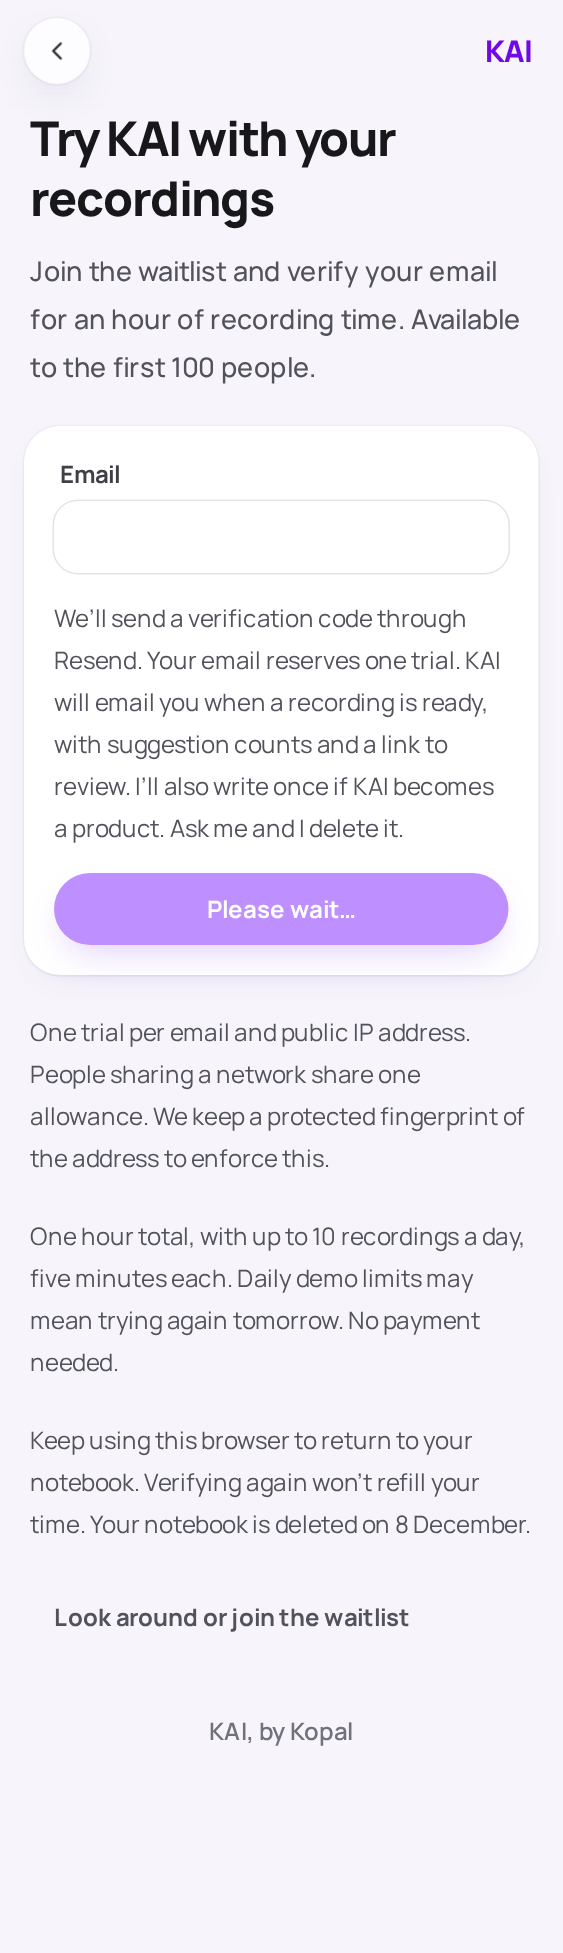
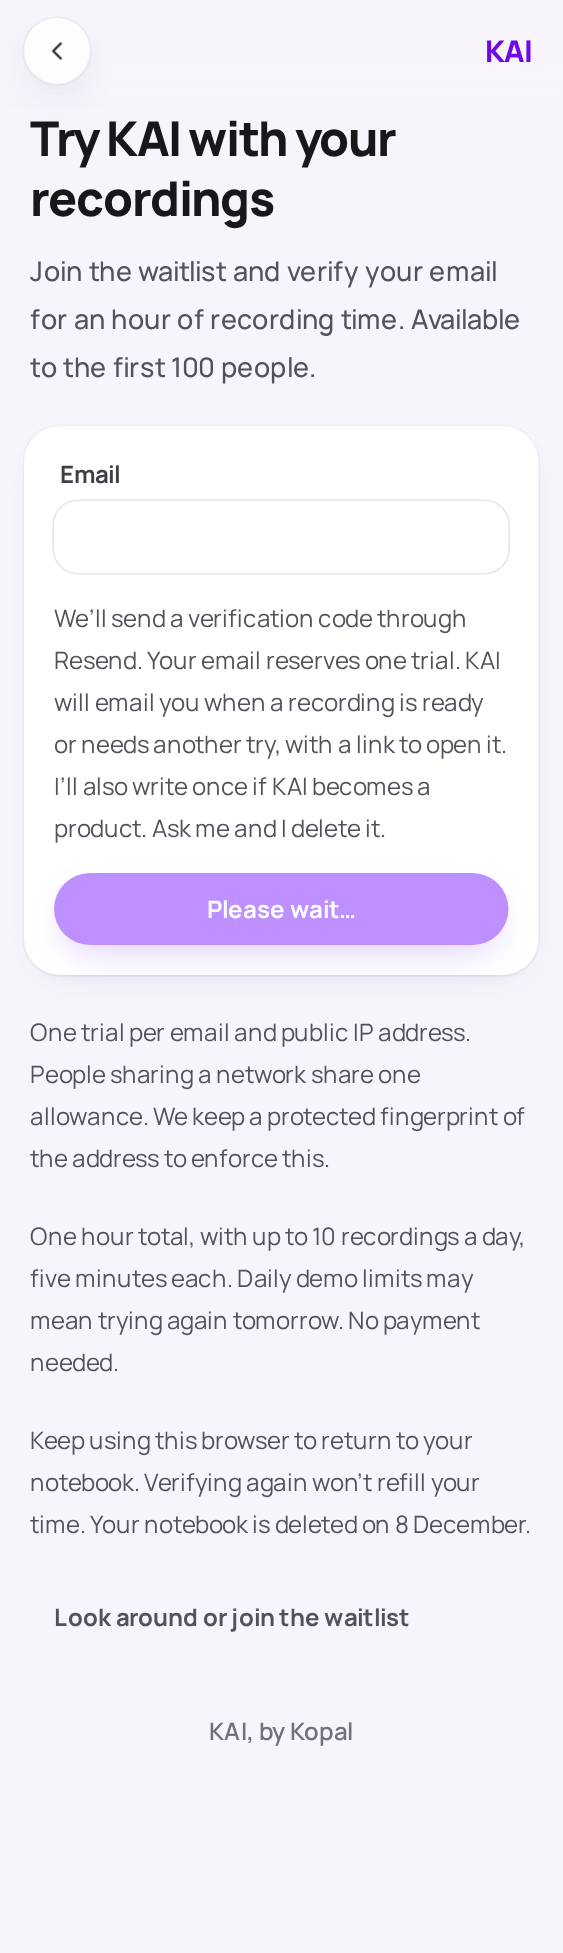
Fix recording failures and notify their owner (#27)
* Record content-free listening failure categories

* Notify recording failures and keep retries moving

Changed region(s): [[0.0906, 0.3748, 0.8757, 0.4373]]

diff --git a/tests/recording-mail.test.ts b/tests/recording-mail.test.ts
@@ -25,7 +25,7 @@ test('recording mail isolates verified recipients, sends counts only, and skips 
  const db=openDatabase();seed(db);const first=actor(db),second=actor(db),unverified=actor(db,false);
  const id=recording(db,first.id),empty=recording(db,second.id,{source:'shared'});
  for(const kind of ['person','note','todo','done'])db.prepare("INSERT INTO suggestions VALUES (?,?,?,?,?,?,'proposed')").run(randomUUID(),first.id,id,kind,JSON.stringify({text:'Private invented action'}),'Private invented quote');
- for(const options of [{status:'failed'},{status:'listening'},{status:'reading'},{status:'waiting'},{source:'sample'},{source:'paste'},{notify:0},{transcribed:0}])recording(db,first.id,options);
+ for(const options of [{status:'listening'},{status:'reading'},{status:'waiting'},{source:'sample'},{source:'paste'},{notify:0},{transcribed:0}])recording(db,first.id,options);
  recording(db,unverified.id);recording(db,'public');
  const sent:{email:string;id:string;counts:ReadyCounts}[]=[];
  const worker=recordingMailWorker(db,async(email,id,counts)=>{sent.push({email,id,counts})});
@@ -137,4 +137,81 @@ test('styled email escapes the recording title and snapshots it for identical re
   await worker.kick();db.prepare('UPDATE conversations SET title=? WHERE id=?').run('A later title',id);now+=60001;await worker.kick();
   assert.deepEqual(titles,['Private invented title','Private invented title']);
  }finally{await worker.stop();db.close()}
+});
+
+
+test('one private failure email survives restarts, suppresses stale sends and allows a later ready message',async()=>{
+ let db=openDatabase();seed(db);const judge=actor(db),other=actor(db,false),id=recording(db,judge.id,{status:'failed',transcribed:0});
+ recording(db,other.id,{status:'failed'});recording(db,judge.id,{status:'failed',source:'paste'});recording(db,judge.id,{status:'failed',notify:0});
+ let now=Date.now();const sent:{id:string;kind:string;title:string;counts:ReadyCounts}[]=[];
+ const send=async(_email:string,id:string,counts:ReadyCounts,title:string,kind='ready')=>{sent.push({id,kind,title,counts});};
+ let worker=recordingMailWorker(db,send,()=>now);
+ try {
+  await worker.kick();await worker.kick();assert.deepEqual(sent,[{id,kind:'failed',title:'Your recording',counts:{person:0,note:0,todo:0,done:0}}]);
+  await worker.stop();const snapshot=db.serialize();db.close();db=openDatabase(snapshot);worker=recordingMailWorker(db,send,()=>now);
+  await worker.kick();assert.equal(sent.length,1);
+  db.prepare("UPDATE conversations SET status='reading' WHERE id=?").run(id);await worker.kick();assert.equal(sent.length,1);
+  db.prepare("UPDATE conversations SET status='failed' WHERE id=?").run(id);await worker.kick();assert.equal(sent.length,1);
+  db.prepare("UPDATE conversations SET status='ready',transcribed=1 WHERE id=?").run(id);await worker.kick();assert.equal(sent.length,2);assert.equal(sent[1].kind,'ready');
+  const stale=recording(db,judge.id,{status:'failed'});await worker.stop();
+  worker=recordingMailWorker(db,async()=>{throw new Error('Invented temporary mail failure')},()=>now);await worker.kick();await worker.stop();
+  db.prepare("UPDATE conversations SET status='ready' WHERE id=?").run(stale);now+=60001;
+  worker=recordingMailWorker(db,send,()=>now);await worker.kick();assert.equal(sent.filter(s=>s.id===stale&&s.kind==='failed').length,0);assert.equal(sent.filter(s=>s.id===stale&&s.kind==='ready').length,1);
+ }finally{await worker.stop();db.close()}
+});
+
+test('listening and reading failures wake the email worker without another page request',async()=>{
+ const db=openDatabase();seed(db);const judge=actor(db),directory=mkdtempSync('.data/mail-failures-');const sent:string[]=[];
+ const mail=recordingMailWorker(db,async(_email,_id,_counts,_title,kind)=>{sent.push(kind!)});
+ let queue=queueWorker(db,async()=>{throw new Error('Invented reading failure')},async()=>{throw new Error('Private invented provider detail')},()=>{void mail.kick()});
+ try {
+  await addAudio(db,judge.id,[{name:'invented.wav',buffer:testTone(),date:Date.now()}],directory);
+  await queue.kick();await mail.kick();assert.deepEqual(sent,['failed']);await queue.stop();
+  queue=queueWorker(db,async()=>{throw new Error('Private invented words')},fakeTranscriber,()=>{void mail.kick()});
+  await addAudio(db,judge.id,[{name:'invented.wav',buffer:testTone(),date:Date.now()}],directory);
+  await queue.kick();await mail.kick();assert.deepEqual(sent,['failed','failed']);
+ }finally{await queue.stop();await mail.stop();db.close();rmSync(directory,{recursive:true,force:true})}
+});
+
+test('failure email excludes content and uses a separate stable key from completion mail',async()=>{
+ const original=globalThis.fetch;const requests:{body:any;key:string}[]=[];
+ globalThis.fetch=async(input,init)=>{
+  if(String(input).endsWith('/gateway/list'))return Response.json(['https://api.sprites.dev/v1/gateway/resend/invented']);
+  requests.push({body:JSON.parse(String(init?.body)),key:new Headers(init?.headers).get('Idempotency-Key')!});return Response.json({id:'invented-email'});
+ };
+ try {
+  const send=resendReadySender('KAI <kai@example.invalid>','https://kai.example.invalid');const counts={person:2,note:4,todo:3,done:1};
+  await send('reader@example.invalid','invented-recording',counts,'Private invented title','failed');
+  await send('reader@example.invalid','invented-recording',counts,'Changed private title','failed');
+  await send('reader@example.invalid','invented-recording',counts,'Private invented title','ready');
+  assert.deepEqual(requests[0],requests[1]);assert.notEqual(requests[0].key,requests[2].key);
+  const message=requests[0].body;assert.match(message.subject,/another try/);assert.match(message.text,/recordings\/invented-recording/);assert.match(message.html,/#7f22fe/);
+  for(const value of [message.subject,message.text,message.html]){assert.ok(!value.includes('Private'));assert.ok(!value.includes('reader@example.invalid'));assert.ok(!value.includes('suggested'));}
+ }finally{globalThis.fetch=original}
+});
+
+
+test('mail queued just after an empty scan is sent without another request',async()=>{
+ const db=openDatabase();seed(db);const a=actor(db);let sends=0;
+ const worker=recordingMailWorker(db,async()=>{sends++});
+ try {const idle=worker.kick();recording(db,a.id,{status:'failed'});const queued=worker.kick();await Promise.all([idle,queued]);assert.equal(sends,1);}
+ finally{await worker.stop();db.close()}
+});
+
+test('failure sends use the same notebook and global caps as ready sends',async()=>{
+ const db=openDatabase();seed(db);const actors=Array.from({length:7},()=>actor(db));let sends=0;
+ for(const a of actors)for(let i=0;i<11;i++)recording(db,a.id,{status:i%2?'ready':'failed'});
+ const worker=recordingMailWorker(db,async()=>{sends++});
+ try {await worker.kick();assert.equal(sends,60);assert.ok((db.prepare('SELECT count(*) n FROM notification_sends GROUP BY workspace_id').all() as {n:number}[]).every(r=>r.n<=10));}
+ finally{await worker.stop();db.close()}
+});
+
+
+test('mail migration preserves ready delivery state and does not send it again',async()=>{
+ let db=openDatabase();seed(db);const a=actor(db),id=recording(db,a.id);const now=Date.now();
+ db.exec(`DROP TABLE recording_emails; CREATE TABLE recording_emails(id TEXT PRIMARY KEY REFERENCES conversations(id),workspace_id TEXT NOT NULL REFERENCES workspaces(id),counts TEXT NOT NULL,queued_at INTEGER NOT NULL,first_attempt_at INTEGER,attempts INTEGER NOT NULL DEFAULT 0,next_attempt_at INTEGER NOT NULL DEFAULT 0,sent_at INTEGER,closed INTEGER NOT NULL DEFAULT 0,title TEXT NOT NULL DEFAULT 'Your recording')`);
+ db.prepare('INSERT INTO recording_emails(id,workspace_id,counts,queued_at,first_attempt_at,attempts,sent_at,title) VALUES (?,?,?,?,?,?,?,?)').run(id,a.id,JSON.stringify({person:0,note:0,todo:0,done:0}),now,now,1,now,'Invented frozen title');
+ const snapshot=db.serialize();db.close();db=openDatabase(snapshot);let sends=0;const worker=recordingMailWorker(db,async()=>{sends++});
+ try {await worker.kick();assert.equal(sends,0);assert.deepEqual(db.prepare('SELECT kind,attempts,sent_at,title FROM recording_emails WHERE id=?').get(id),{kind:'ready',attempts:1,sent_at:now,title:'Invented frozen title'});}
+ finally{await worker.stop();db.close()}
 });

diff --git a/src/server/audio.ts b/src/server/audio.ts
@@ -47,6 +47,14 @@ export async function addAudio(db:KaiDatabase,workspace:string,files:AudioInput[
   } catch(error) {for(const file of written) if(existsSync(file)) unlinkSync(file);throw error;}
 }
 export class AudioDurationError extends Error {}
+/** Fixed categories only. Never retain provider messages or recording content. */
+export class ListeningFailure extends Error {constructor(public code:string){super(code)}}
+function listeningCode(error:unknown) {
+  if(error instanceof ListeningFailure)return error.code;
+  if(error instanceof AudioDurationError)return 'audio_duration';
+  if(error instanceof Error && /^Connector request failed \((\d{3})\)\.$/.test(error.message))return 'listening_http_'+error.message.match(/\d{3}/)![0];
+  return 'listening_failed';
+}
 export const assemblyTranscriber:Transcriber=async(audio,signal,reservedSeconds=300,multiple=false)=> {
   if(!Number.isInteger(reservedSeconds) || reservedSeconds<1 || reservedSeconds>300)throw new Error('Invalid recording reservation.');
   const {assemblyai}=await discoverGateways();
@@ -62,17 +70,19 @@ export const assemblyTranscriber:Transcriber=async(audio,signal,reservedSeconds=
         if(typeof result.text!=='string' || result.text.length>20000 || result.audio_duration>300) throw new Error('Recording exceeds the limits.');
         if(multiple) {
           const utterances=result.utterances;
-          if(!Array.isArray(utterances) || !utterances.length || utterances.length>2000)throw new Error('Speaker labels are missing.');
+          if(!Array.isArray(utterances) || !utterances.length || utterances.length>2000)throw new ListeningFailure('speakers_missing');
           const clean:Utterance[]=utterances.map(u=>{
-            if(!u || typeof u.speaker!=='string' || !/^[A-Z]{1,3}$/.test(u.speaker) || typeof u.text!=='string' || !u.text.trim() || u.text.length>20000 || !Number.isFinite(u.start) || !Number.isFinite(u.end) || u.start<0 || u.end<u.start || u.end>reservedSeconds*1000+1000)throw new Error('Speaker labels are invalid.');
+            if(!u || typeof u.speaker!=='string' || !/^[A-Z]{1,3}$/.test(u.speaker))throw new ListeningFailure('speaker_label_invalid');
+            if(typeof u.text!=='string' || !u.text.trim() || u.text.length>20000)throw new ListeningFailure('speaker_text_invalid');
+            if(!Number.isFinite(u.start) || !Number.isFinite(u.end) || u.start<0 || u.end<u.start || u.end>reservedSeconds*1000+1000)throw new ListeningFailure('speaker_time_invalid');
             return {speaker:u.speaker,text:u.text,start:u.start,end:u.end};
           });
-          if(new Set(clean.map(u=>u.speaker)).size>20 || clean.reduce((n,u)=>n+u.text.length,0)>40000)throw new Error('Too many speaker passages.');
+          if(new Set(clean.map(u=>u.speaker)).size>20 || clean.reduce((n,u)=>n+u.text.length,0)>40000)throw new ListeningFailure('speaker_limit');
           return {text:result.text,utterances:clean};
         }
         return result.text;
       }
-      if(result.status==='error') throw new Error('Listening failed.');
+      if(result.status==='error') throw new ListeningFailure('listening_provider_error');
       await new Promise(resolve=>setTimeout(resolve,1000));
     }
   } finally {
@@ -82,7 +92,7 @@ export const assemblyTranscriber:Transcriber=async(audio,signal,reservedSeconds=
 };
 type Job={recording_type:string|null;id:string;workspace_id:string;audio_path:string|null;status:string;attempts:number;text:string;transcribed:number;reserved_seconds:number|null};
 export function queueWorker(db:KaiDatabase,reader:Reader,transcribe:Transcriber,onReady:()=>void=()=>{}) {
-  let active:Promise<void>|undefined,stopped=false;
+  let active:Promise<void>|undefined,stopped=false,again=false;
   const controller=new AbortController();
   function retryInterrupted(job:Job) {
     if(job.attempts>=2) {db.prepare("UPDATE conversations SET status='failed',error='KAI could not finish. Try again.' WHERE id=?").run(job.id);return;}
@@ -99,7 +109,8 @@ export function queueWorker(db:KaiDatabase,reader:Reader,transcribe:Transcriber,
   // One server owns this database. A new process means these leases were interrupted.
   for(const job of db.prepare("SELECT * FROM conversations WHERE status IN ('listening','reading')").all() as Job[]) retryInterrupted(job);
   function kick() {
-    if(active || stopped) return active ?? Promise.resolve();
+    if(stopped)return active ?? Promise.resolve();
+    if(active){again=true;return active;}
     active=(async()=> {
       for(;;) {
         if(stopped) return;
@@ -116,7 +127,7 @@ export function queueWorker(db:KaiDatabase,reader:Reader,transcribe:Transcriber,
             const transcript=await transcribe(audio,signal,seconds,job.recording_type==='multiple');signal.throwIfAborted();
             const words=typeof transcript==='string' ? transcript:transcript.text;
             const utterances=typeof transcript==='string' ? []:transcript.utterances;
-            if(job.recording_type==='multiple' && !utterances.length)throw new Error('Speaker labels are missing.');
+            if(job.recording_type==='multiple' && !utterances.length)throw new ListeningFailure('speakers_missing');
             if(words.length>20000) throw new Error();
             // Persist words first: a restart after this line never needs to listen again.
             db.prepare('UPDATE conversations SET text=?,transcribed=1,utterances=?,awaiting_speakers=? WHERE id=?').run(words,JSON.stringify(utterances),Number(job.recording_type==='multiple'),job.id);
@@ -131,15 +142,17 @@ export function queueWorker(db:KaiDatabase,reader:Reader,transcribe:Transcriber,
           onReady();
           if(signal.aborted && !stopped) retryInterrupted(db.prepare('SELECT * FROM conversations WHERE id=?').get(job.id) as Job);
         } catch(error) {
+          db.prepare('UPDATE conversations SET failure_code=? WHERE id=?').run(signal.aborted ? 'listening_timeout':listeningCode(error),job.id);
           if(error instanceof AudioDurationError) {
             db.prepare('UPDATE workspaces SET trial_ended=1,trial_seconds=0 WHERE id=? AND trial_seconds IS NOT NULL').run(job.workspace_id);
           }
           if(stopped) return;
           if(signal.aborted) retryInterrupted(db.prepare('SELECT * FROM conversations WHERE id=?').get(job.id) as Job);
           else db.prepare("UPDATE conversations SET status='failed',error='KAI could not listen to this recording. Try again.' WHERE id=?").run(job.id);
+          if((db.prepare('SELECT status FROM conversations WHERE id=?').get(job.id) as {status:string}).status==='failed')onReady();
         }
       }
-    })().finally(()=>{active=undefined;});
+    })().finally(()=>{active=undefined;if(again && !stopped){again=false;return kick();}});
     return active;
   }
   return {kick,stop:async()=>{stopped=true;controller.abort();await active;}};

diff --git a/src/server/recording-mail.ts b/src/server/recording-mail.ts
@@ -1,25 +1,27 @@
 import {randomUUID} from 'node:crypto';
 import type {KaiDatabase} from './db';
 export type ReadyCounts={person:number;note:number;todo:number;done:number};
-export type SendReady=(email:string,id:string,counts:ReadyCounts,title:string)=>Promise<void>;
+export type RecordingMailKind='ready'|'failed';
+export type SendReady=(email:string,id:string,counts:ReadyCounts,title:string,kind?:RecordingMailKind)=>Promise<void>;
 const day=86400000;
 /** One owner, like the recording queue. A crash leaves the same provider idempotency key. */
 export function recordingMailWorker(db:KaiDatabase,send:SendReady|undefined,now:()=>number=Date.now) {
- let active:Promise<void>|undefined,stopped=false;
+ let active:Promise<void>|undefined,stopped=false,again=false;
  function kick() {
-  if(!send || stopped || active)return active??Promise.resolve();
+  if(!send || stopped)return active??Promise.resolve();
+  if(active){again=true;return active;}
   active=(async()=>{
    for(;;) {
     if(stopped)return;
-   const ready=db.prepare(`SELECT c.id,c.workspace_id,c.title FROM conversations c JOIN waitlist w ON w.workspace_id=c.workspace_id
+   const ready=db.prepare(`SELECT c.id,c.workspace_id,c.title,c.status kind FROM conversations c JOIN waitlist w ON w.workspace_id=c.workspace_id
     JOIN workspaces n ON n.id=c.workspace_id
-    WHERE c.notify_ready=1 AND c.status='ready' AND c.transcribed=1 AND c.source IN ('recording','shared')
+    WHERE c.notify_ready=1 AND (c.status='failed' OR (c.status='ready' AND c.transcribed=1)) AND c.source IN ('recording','shared')
      AND w.verified_at IS NOT NULL AND n.trial_verified=1 AND n.trial_ended=0
-     AND NOT EXISTS (SELECT 1 FROM recording_emails e WHERE e.id=c.id)`).all() as {id:string;workspace_id:string;title:string}[];
+     AND NOT EXISTS (SELECT 1 FROM recording_emails e WHERE e.id=c.id AND e.kind=c.status)`).all() as {id:string;workspace_id:string;title:string;kind:RecordingMailKind}[];
    for(const row of ready) {
     const counts:ReadyCounts={person:0,note:0,todo:0,done:0};
-    for(const count of db.prepare("SELECT kind,count(*) n FROM suggestions WHERE conversation_id=? AND workspace_id=? AND status='proposed' GROUP BY kind").all(row.id,row.workspace_id) as {kind:keyof ReadyCounts;n:number}[])counts[count.kind]=count.n;
-    db.prepare('INSERT OR IGNORE INTO recording_emails(id,workspace_id,counts,queued_at,title) VALUES (?,?,?,?,?)').run(row.id,row.workspace_id,JSON.stringify(counts),now(),row.title);
+    if(row.kind==='ready')for(const count of db.prepare("SELECT kind,count(*) n FROM suggestions WHERE conversation_id=? AND workspace_id=? AND status='proposed' GROUP BY kind").all(row.id,row.workspace_id) as {kind:keyof ReadyCounts;n:number}[])counts[count.kind]=count.n;
+    db.prepare('INSERT OR IGNORE INTO recording_emails(id,kind,workspace_id,counts,queued_at,title) VALUES (?,?,?,?,?,?)').run(row.id,row.kind,row.workspace_id,JSON.stringify(counts),now(),row.kind==='ready'?row.title:'Your recording');
    }
     const at=now();
     const job=db.transaction(()=>{
@@ -28,23 +30,23 @@ export function recordingMailWorker(db:KaiDatabase,send:SendReady|undefined,now:
      const total=db.prepare('SELECT (SELECT count(*) FROM notification_sends)+(SELECT count(*) FROM trial_sends WHERE sent_at>?) n').get(at-day) as {n:number};
      const notifications=db.prepare('SELECT count(*) n FROM notification_sends').get() as {n:number};
      if(total.n>=100 || notifications.n>=60)return;
-     const row=db.prepare(`SELECT e.id,e.workspace_id,e.counts,e.title,w.email FROM recording_emails e
+     const row=db.prepare(`SELECT e.id,e.kind,e.workspace_id,e.counts,e.title,w.email FROM recording_emails e
       JOIN waitlist w ON w.workspace_id=e.workspace_id JOIN workspaces n ON n.id=e.workspace_id
       JOIN conversations c ON c.id=e.id AND c.workspace_id=e.workspace_id
       WHERE e.sent_at IS NULL AND e.closed=0 AND e.next_attempt_at<=? AND w.verified_at IS NOT NULL
-       AND n.trial_verified=1 AND n.trial_ended=0 AND c.status='ready'
+       AND n.trial_verified=1 AND n.trial_ended=0 AND c.status=e.kind
        AND (SELECT count(*) FROM notification_sends s WHERE s.workspace_id=e.workspace_id)<10
-      ORDER BY e.queued_at,e.rowid LIMIT 1`).get(at) as {id:string;workspace_id:string;counts:string;title:string;email:string}|undefined;
+      ORDER BY e.queued_at,e.rowid LIMIT 1`).get(at) as {id:string;kind:RecordingMailKind;workspace_id:string;counts:string;title:string;email:string}|undefined;
      if(!row)return;
      db.prepare('INSERT INTO notification_sends(id,workspace_id,sent_at) VALUES (?,?,?)').run(randomUUID(),row.workspace_id,at);
-     db.prepare('UPDATE recording_emails SET first_attempt_at=coalesce(first_attempt_at,?),attempts=attempts+1,next_attempt_at=? WHERE id=?').run(at,at+60000,row.id);
+     db.prepare('UPDATE recording_emails SET first_attempt_at=coalesce(first_attempt_at,?),attempts=attempts+1,next_attempt_at=? WHERE id=? AND kind=?').run(at,at+60000,row.id,row.kind);
      return row;
     })();
     if(!job)return;
-    try {await send(job.email,job.id,JSON.parse(job.counts),job.title);db.prepare('UPDATE recording_emails SET sent_at=? WHERE id=?').run(now(),job.id);}
+    try {await send(job.email,job.id,JSON.parse(job.counts),job.title,job.kind);db.prepare('UPDATE recording_emails SET sent_at=? WHERE id=? AND kind=?').run(now(),job.id,job.kind);}
     catch { /* Reserved attempts remain charged. No recipient, content or provider error is logged. */ }
    }
-  })().finally(()=>{active=undefined});
+  })().finally(()=>{active=undefined;if(again && !stopped){again=false;return kick();}});
   return active;
  }
  return {kick,stop:async()=>{stopped=true;await active}};

diff --git a/src/look/screens/Home.tsx b/src/look/screens/Home.tsx
@@ -27,10 +27,11 @@ function Queue({ items }: { items: QueueItem[] }) {
           <li key={item.id}>
             <a href={to((item.awaiting_person ? '/upload/' : '/recordings/') + item.id)} className={`${FOCUS} flex min-h-16 items-center gap-3 px-4 py-3`}>
               <span className="min-w-0 flex-1">
-                <span className="block text-base font-bold text-zinc-900">{item.title}</span>
+                <span className="block text-base font-bold text-zinc-900">{item.title==='New recording' ? (item.recording_type ? {memo:'My memo',voice:'Voice note',multiple:'Multiple speakers'}[item.recording_type] : 'Shared recording') : item.title}</span>
                 <span className={`block text-base font-medium ${item.status === 'failed' ? 'text-rose-700' : 'text-zinc-600'}`}>
-                  {item.awaiting_person ? 'Choose a person and start' : item.status === 'failed' ? (item.error ?? STATUS.failed) : item.status === 'reading' ? (item.progress ?? STATUS.reading) : item.status === 'ready' && item.suggestion_count ? `${item.suggestion_count} suggestions to review` : STATUS[item.status]}
+                  {item.awaiting_person ? 'Choose the recording type to start' : item.awaiting_speakers ? 'Identify speakers to continue' : item.status === 'failed' ? (item.error ?? STATUS.failed) : item.status === 'reading' ? (item.progress ?? STATUS.reading) : item.status === 'ready' && item.suggestion_count ? `${item.suggestion_count} suggestions to review` : STATUS[item.status]}
                 </span>
+                {item.reserved_seconds!=null && <span className="block text-base text-zinc-500">{Math.floor(item.reserved_seconds/60)} min {item.reserved_seconds%60} sec · {item.happened_on}</span>}
               </span>
               {item.status === 'listening' || item.status === 'reading' ? (
                 <Working />
@@ -176,7 +177,7 @@ export function Home({
       {queue.length > 0 && <Queue items={queue} />}
       {home && !readOnly && !home.shortcutReady && <Card className="space-y-3 p-5"><h2 className="text-xl font-extrabold">Send voice notes straight to KAI</h2><p className="text-base/7 text-zinc-600">Set up the iPhone shortcut once, then share from Voice Memos or WhatsApp.</p><Button variant="outline" href="/connect">Set up your phone</Button></Card>}
       {home?.trialSeconds!=null && !home.trialVerified && <Card className="p-5"><p className="mb-3 text-base/7">Verify your email to continue your trial. Your notebook and remaining time are kept.</p><Button href="/try" variant="outline">Verify email</Button></Card>}
-      {home?.trialSeconds!=null && home.trialVerified && <p className="px-1 text-base/7 text-zinc-600">KAI will email you when a recording is ready, with suggestion counts and a link to review.</p>}
+      {home?.trialSeconds!=null && home.trialVerified && <p className="px-1 text-base/7 text-zinc-600">KAI will email you when a recording is ready or needs another try, with a link to open it.</p>}
       {home?.trialSeconds===0 && home.xPostUrl && <Button href={home.xPostUrl} variant="outline">Show KAI some love</Button>}
       {home?.trialSeconds!=null && <p className="px-1 text-base/7 font-medium text-zinc-600">{home.trialSeconds ? `${Math.floor(home.trialSeconds/60)} min ${home.trialSeconds%60} sec of recording time left` : 'You’ve used your hour of recordings. Your notebook and assistant connection are still here.'}</p>}
       {home && !readOnly && home.conversations.length===0 && <Card className="p-5"><h2 className="text-xl font-extrabold">Your notebook starts here</h2><p className="mt-2 text-base/7 text-zinc-600">Add a recording. KAI will find the people, notes and to-dos for you to review.</p></Card>}

diff --git a/src/email/failed.ts b/src/email/failed.ts
@@ -1,0 +1,11 @@
+/** No title, transcript, suggestion or provider error leaves the notebook. */
+export function failedEmail(origin:string,id:string) {
+ const url=new URL(origin);
+ if(url.protocol!=='https:' || url.username || url.password || url.search || url.hash || url.pathname!=='/')throw new Error('A public HTTPS origin is required for recording mail.');
+ const link=new URL('/recordings/'+encodeURIComponent(id),url).href;
+ const subject='Your recording needs another try — KAI';
+ const text=`Hi there,\n\nI couldn’t finish your recording this time. Open it in KAI to see what happened and try again.\n\nRetrying this recording won’t use more of your hour. Daily limits still apply.\n\nOpen recording: ${link}\n\nUse the browser where you started your notebook.\n\nSee you there,\nKAI, by Kopal`;
+ const safeLink=link.replace(/&/g,'&amp;').replace(/"/g,'&quot;');
+ const html=`<!doctype html><html lang="en"><head><meta charset="utf-8"><meta name="viewport" content="width=device-width,initial-scale=1"><title>Your recording needs another try</title></head><body style="margin:0;background:#f7f5fb;color:#27272a;font-family:Manrope,Arial,sans-serif;font-size:16px"><table role="presentation" width="100%" cellspacing="0" cellpadding="0"><tr><td style="padding:28px 16px"><table role="presentation" width="100%" cellspacing="0" cellpadding="0" style="max-width:560px;margin:0 auto"><tr><td style="padding:0 8px 20px;color:#7008e7;font-size:28px;line-height:36px;font-weight:800">KAI</td></tr><tr><td style="padding:28px 24px;background:#fff;border:1px solid #ede9f5;border-radius:24px"><h1 style="margin:0 0 20px;font-size:30px;line-height:38px;font-weight:800">Let’s give it another try</h1><p style="margin:0 0 24px;font-size:16px;line-height:26px;color:#52525b">Hi there,<br>I couldn’t finish your recording this time. Open it in KAI to see what happened and try again.</p><p style="margin:0 0 24px;font-size:16px;line-height:26px;color:#52525b">Retrying this recording won’t use more of your hour. Daily limits still apply.</p><a href="${safeLink}" style="display:block;box-sizing:border-box;width:100%;padding:16px 12px;border-radius:999px;background:#7f22fe;color:#fff;font-size:18px;line-height:26px;font-weight:800;text-align:center;text-decoration:none">Open recording →</a><p style="margin:20px 0 0;color:#71717a;font-size:16px;line-height:26px">Use the browser where you started your notebook.</p></td></tr><tr><td style="padding:24px 16px;text-align:center;color:#71717a;font-size:16px;line-height:26px">See you there,<br><strong>KAI, by Kopal</strong></td></tr></table></td></tr></table></body></html>`;
+ return {subject,text,html};
+}

diff --git a/tests/recording-types.test.ts b/tests/recording-types.test.ts
@@ -79,3 +79,26 @@ test('a memo can propose and accept a personal task without inventing a contact'
   assert.equal((db.prepare('SELECT count(*) n FROM people WHERE workspace_id=?').get(a.id) as {n:number}).n,0);
  }finally{db.close();rmSync(dir,{recursive:true,force:true})}
 });
+
+
+test('a kick just after an empty queue scan still processes a newly queued recording',async()=>{
+ const db=openDatabase();seed(db);const a=createJudge(db),dir=mkdtempSync('.data/queue-wake-');let read=0;
+ const queue=queueWorker(db,async(_input,call)=>{read++;call('describe_recording',{title:'Invented',summary:'An invented recording.\nReady to review.'})},async()=> 'Invented words');
+ try {
+  const [id]=await addAudio(db,a.id,[{name:'invented.wav',buffer:testTone(),date:Date.now()}],dir,'shared',{awaitingPerson:true});
+  const idle=queue.kick();
+  db.prepare('UPDATE conversations SET awaiting_person=0 WHERE id=?').run(id);
+  const started=queue.kick();await Promise.all([idle,started]);
+  assert.equal(read,1);assert.equal((db.prepare('SELECT status FROM conversations WHERE id=?').get(id) as {status:string}).status,'ready');
+ }finally{await queue.stop();db.close();rmSync(dir,{recursive:true,force:true})}
+});
+
+test('listening failure categories retain no upstream content and leave audio retryable',async()=>{
+ const {ListeningFailure}=await import('../src/server/audio');const db=openDatabase();seed(db);const a=createJudge(db),dir=mkdtempSync('.data/listening-failure-');
+ const queue=queueWorker(db,async()=>{},async()=>{throw new ListeningFailure('speakers_missing')});
+ try {
+  const [id]=await addAudio(db,a.id,[{name:'invented.wav',buffer:testTone(),date:Date.now()}],dir,'recording',{person:{recording_type:'multiple'}});
+  await queue.kick();const r=db.prepare('SELECT failure_code,audio_path,status FROM conversations WHERE id=?').get(id) as {failure_code:string;audio_path:string;status:string};
+  assert.equal(r.failure_code,'speakers_missing');assert.equal(r.status,'failed');assert.ok(existsSync(r.audio_path));
+ }finally{await queue.stop();db.close();rmSync(dir,{recursive:true,force:true})}
+});

diff --git a/design/gallery.tsx b/design/gallery.tsx
@@ -142,6 +142,8 @@ const STATES: Record<string, { title: string; screen: () => ReactNode }> = {
   'upload/public': { title: 'Upload · read-only', screen: () => <Upload people={null} readOnly onFiles={nothing} onStart={nothing} onRetry={nothing}/> },
   'home/after-upload': { title: 'Home · recording ready to review', screen: () => <Home {...homeProps} home={{...data.home,hasRecordings:true}} readOnly={false} onTick={nothing} queue={[{id:'fresh',title:'A new recording',status:'ready',error:null,suggestion_count:3}]}/> },
   'home/empty-todos': { title: 'Home · no open to-dos', screen: () => <Home {...homeProps} home={{...data.home,todos:[]}} readOnly={false}/> },
+  'home/unfinished': {title:'Home · distinct unfinished recordings',screen:()=> <Home {...homeProps} home={{...data.home,trialVerified:true,trialSeconds:3356,hasRecordings:true}} readOnly={false} queue={[{id:'shared',title:'New recording',status:'waiting',error:null,awaiting_person:1,reserved_seconds:27,happened_on:today},{id:'meeting',title:'New recording',status:'failed',error:'KAI could not listen to this recording. Try again.',recording_type:'multiple',reserved_seconds:64,happened_on:today}]}/>},
+  'home/speakers': {title:'Home · identify speakers',screen:()=> <Home {...homeProps} readOnly={false} queue={[{id:'meeting',title:'New recording',status:'waiting',error:null,awaiting_speakers:1,recording_type:'multiple',reserved_seconds:64,happened_on:today}]}/>},
   'home/shared': { title: 'Home · recording ready to add', screen: () => <Home {...homeProps} readOnly={false} queue={[{id:'shared',title:'New recording',status:'waiting',error:null,awaiting_person:1}]}/> },
   'recording/linked': { title: 'Recording · linked to a person', screen: () => <LiveRecording first={{...data.recordings.ready,person:data.people[0]}}/> },
   welcome: { title: 'Welcome · with the judge link', screen: () => <Welcome access={{ kind: 'judge', videoUrl: null }} /> },

diff --git a/design/email-failed.html b/design/email-failed.html
@@ -1,0 +1,1 @@
+<!doctype html><html lang="en"><head><meta charset="utf-8"><meta name="viewport" content="width=device-width,initial-scale=1"><title>Your recording needs another try</title></head><body style="margin:0;background:#f7f5fb;color:#27272a;font-family:Manrope,Arial,sans-serif;font-size:16px"><table role="presentation" width="100%" cellspacing="0" cellpadding="0"><tr><td style="padding:28px 16px"><table role="presentation" width="100%" cellspacing="0" cellpadding="0" style="max-width:560px;margin:0 auto"><tr><td style="padding:0 8px 20px;color:#7008e7;font-size:28px;line-height:36px;font-weight:800">KAI</td></tr><tr><td style="padding:28px 24px;background:#fff;border:1px solid #ede9f5;border-radius:24px"><h1 style="margin:0 0 20px;font-size:30px;line-height:38px;font-weight:800">Let’s give it another try</h1><p style="margin:0 0 24px;font-size:16px;line-height:26px;color:#52525b">Hi there,<br>I couldn’t finish your recording this time. Open it in KAI to see what happened and try again.</p><p style="margin:0 0 24px;font-size:16px;line-height:26px;color:#52525b">Retrying this recording won’t use more of your hour. Daily limits still apply.</p><a href="https://kai.example.invalid/recordings/invented-recording" style="display:block;box-sizing:border-box;width:100%;padding:16px 12px;border-radius:999px;background:#7f22fe;color:#fff;font-size:18px;line-height:26px;font-weight:800;text-align:center;text-decoration:none">Open recording →</a><p style="margin:20px 0 0;color:#71717a;font-size:16px;line-height:26px">Use the browser where you started your notebook.</p></td></tr><tr><td style="padding:24px 16px;text-align:center;color:#71717a;font-size:16px;line-height:26px">See you there,<br><strong>KAI, by Kopal</strong></td></tr></table></td></tr></table></body></html>

diff --git a/tests/phone/recording-failures.spec.ts b/tests/phone/recording-failures.spec.ts
@@ -1,0 +1,19 @@
+import {test,expect} from './fixture';
+import {assertPhone} from './usability';
+test('Home distinguishes separate unfinished uploads and links each exactly once',async({page,kai})=>{
+ await page.goto('/');await page.evaluate(s=>{history.replaceState(null,'','/#judge='+s);location.reload()},kai.secret);
+ await page.getByRole('link',{name:'Try it yourself',exact:true}).click();
+ await page.route('**/api/queue',route=>route.fulfill({json:[
+  {id:'invented-pending',title:'New recording',status:'waiting',error:null,awaiting_person:1,reserved_seconds:27,happened_on:'2026-11-26'},
+  {id:'invented-failed',title:'New recording',status:'failed',error:'KAI could not listen to this recording. Try again.',recording_type:'multiple',reserved_seconds:64,happened_on:'2026-11-26'},
+  {id:'invented-speakers',title:'New recording',status:'waiting',error:null,awaiting_speakers:1,recording_type:'multiple',reserved_seconds:42,happened_on:'2026-11-26'}
+ ]}));
+ await page.evaluate(()=>sessionStorage.setItem('kai-upload-invented-pending','seen'));
+ await page.goto('/home');
+ await expect(page.locator('a[href="/upload/invented-pending"]')).toHaveCount(1);
+ await expect(page.locator('a[href="/recordings/invented-failed"]')).toHaveCount(1);
+ await expect(page.getByText('Choose the recording type to start',{exact:true})).toBeVisible();
+ await expect(page.getByText('Identify speakers to continue',{exact:true})).toBeVisible();
+ await expect(page.getByText('0 min 27 sec · 2026-11-26',{exact:true})).toBeVisible();
+ await expect(page.getByText('1 min 4 sec · 2026-11-26',{exact:true})).toBeVisible();await assertPhone(page);
+});

diff --git a/src/server/db.ts b/src/server/db.ts
@@ -54,6 +54,18 @@ export function openDatabase(path:string|Buffer = ':memory:') {
   `);
   db.transaction(()=> {
   if(!(db.prepare('PRAGMA table_info(recording_emails)').all() as {name:string}[]).some(c=>c.name==='title'))db.exec("ALTER TABLE recording_emails ADD COLUMN title TEXT NOT NULL DEFAULT 'Your recording'");
+  if(!(db.prepare('PRAGMA table_info(recording_emails)').all() as {name:string}[]).some(c=>c.name==='kind'))db.exec(`
+    CREATE TABLE recording_emails_next (
+      id TEXT NOT NULL REFERENCES conversations(id), kind TEXT NOT NULL CHECK(kind IN ('ready','failed')),
+      workspace_id TEXT NOT NULL REFERENCES workspaces(id), counts TEXT NOT NULL CHECK(json_valid(counts)),
+      queued_at INTEGER NOT NULL, first_attempt_at INTEGER, attempts INTEGER NOT NULL DEFAULT 0,
+      next_attempt_at INTEGER NOT NULL DEFAULT 0, sent_at INTEGER, closed INTEGER NOT NULL DEFAULT 0,
+      title TEXT NOT NULL DEFAULT 'Your recording', PRIMARY KEY(id,kind)
+    );
+    INSERT INTO recording_emails_next SELECT id,'ready',workspace_id,counts,queued_at,first_attempt_at,attempts,next_attempt_at,sent_at,closed,title FROM recording_emails;
+    DROP TABLE recording_emails;
+    ALTER TABLE recording_emails_next RENAME TO recording_emails;
+  `);
   const columns=db.prepare('PRAGMA table_info(workspaces)').all() as {name:string}[];
   if(!columns.some(c=>c.name==='waitlist_visitors'))db.exec("ALTER TABLE workspaces ADD COLUMN waitlist_visitors TEXT NOT NULL DEFAULT '{}'");
   if(!columns.some(c=>c.name==='session_secret')) {

diff --git a/src/look/screens/Trial.tsx b/src/look/screens/Trial.tsx
@@ -8,7 +8,7 @@ export function Trial({busy,error,codeSent,onSubmit,onVerify,onResend}:{busy?:bo
   <Card className="p-5"><form className="space-y-4" onSubmit={event=>{event.preventDefault();if(codeSent)onVerify?.(code);else onSubmit(email)}}>
    {codeSent ? <Field label="Verification code" id="trial-code" type="password" inputMode="numeric" autoComplete="one-time-code" pattern="[0-9]{6}" minLength={6} maxLength={6} required value={code} onChange={e=>setCode(e.target.value)}/> : <>
     <Field label="Email" id="trial-email" type="email" autoComplete="email" required maxLength={254} value={email} onChange={event=>setEmail(event.target.value)}/>
-    <p className="text-base/7 text-zinc-600">We’ll send a verification code through Resend. Your email reserves one trial. KAI will email you when a recording is ready, with suggestion counts and a link to review. I’ll also write once if KAI becomes a product. Ask me and I delete it.</p>
+    <p className="text-base/7 text-zinc-600">We’ll send a verification code through Resend. Your email reserves one trial. KAI will email you when a recording is ready or needs another try, with a link to open it. I’ll also write once if KAI becomes a product. Ask me and I delete it.</p>
    </>}
    {error && <Notice tone="error">{error}</Notice>}
    <Button variant="primary" wide type="submit" disabled={busy}>{busy ? 'Please wait…':codeSent ? 'Verify and open notebook':'Send verification code'}</Button>

diff --git a/src/server/trial-mail.ts b/src/server/trial-mail.ts
@@ -1,4 +1,5 @@
 import {readyEmail} from '../email/ready';
+import {failedEmail} from '../email/failed';
 import {gatewayUrl,gatewayRequest} from './gateway';
 import type {SendCode} from './trial';
 import type {ReadyCounts,SendReady} from './recording-mail';
@@ -23,5 +24,5 @@ export function readyMessage(origin:string,id:string,counts:ReadyCounts,title?:s
 export function resendReadySender(from:string,origin:string):SendReady {
  // Validate configuration before starting the worker; never derive links from request headers.
  readyMessage(origin,'check',{person:0,note:0,todo:0,done:0});
- return (email,id,counts,title)=>{const message=readyEmail(origin,id,counts,title);return sendMail(from,email,'kai-recording-ready-'+id,message.subject,message.text,message.html);};
+ return (email,id,counts,title,kind='ready')=>{const message=kind==='failed'?failedEmail(origin,id):readyEmail(origin,id,counts,title);return sendMail(from,email,'kai-recording-'+kind+'-'+id,message.subject,message.text,message.html);};
 }
